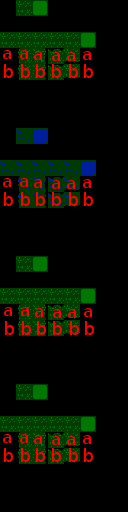
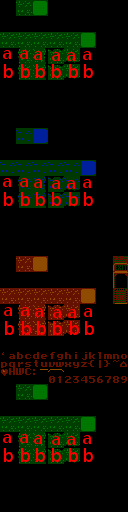
Show end of level and stuff

diff --git a/src/movement.c b/src/movement.c
@@ -86,14 +86,14 @@ void do_banked_movement() {
 		scratch = playerY + playerYVelocity;
 		if (playerYVelocity & 0x80) {
 			// TL || TR
-			if (test_collision(currentLevel[(playerX>>4)+((((scratch)>>4))<<4)]) || test_collision(currentLevel[((playerX+PLAYER_WIDTH)>>4)+(((scratch>>4))<<4)])) {
+			if (test_collision(currentLevel[(playerX>>4)+((((scratch)>>4))<<4)], 1) || test_collision(currentLevel[((playerX+PLAYER_WIDTH)>>4)+(((scratch>>4))<<4)], 1)) {
 				playerYVelocity = 0;
 			}
 			if (playerVelocityLockTime == 0)
 				playerDirection = PLAYER_DIRECTION_UP;
 		} else {
 			// BL || BR
-			if (test_collision(currentLevel[((playerX)>>4)+((((scratch+PLAYER_HEIGHT)>>4))<<4)]) || test_collision(currentLevel[((playerX+PLAYER_WIDTH)>>4)+((((scratch+PLAYER_HEIGHT)>>4))<<4)])) {
+			if (test_collision(currentLevel[((playerX)>>4)+((((scratch+PLAYER_HEIGHT)>>4))<<4)], 1) || test_collision(currentLevel[((playerX+PLAYER_WIDTH)>>4)+((((scratch+PLAYER_HEIGHT)>>4))<<4)], 1)) {
 				playerYVelocity = 0;
 			}
 			if (playerVelocityLockTime == 0)
@@ -105,14 +105,14 @@ void do_banked_movement() {
 		scratch = playerX + playerXVelocity;
 		if (playerXVelocity & 0x80) {
 			// TL || BL
-			if (test_collision(currentLevel[(scratch>>4)+((((playerY)>>4))<<4)]) || test_collision(currentLevel[(scratch>>4)+((((playerY+PLAYER_HEIGHT)>>4))<<4)])) {
+			if (test_collision(currentLevel[(scratch>>4)+((((playerY)>>4))<<4)], 1) || test_collision(currentLevel[(scratch>>4)+((((playerY+PLAYER_HEIGHT)>>4))<<4)], 1)) {
 				playerXVelocity = 0;
 			}
 			if (playerVelocityLockTime == 0)
 				playerDirection = PLAYER_DIRECTION_LEFT;
 		} else {
 			// TR || BR
-			if (test_collision(currentLevel[((scratch+PLAYER_WIDTH)>>4)+(((playerY>>4))<<4)]) || test_collision(currentLevel[((scratch+PLAYER_WIDTH)>>4)+((((playerY+PLAYER_HEIGHT)>>4))<<4)])) {
+			if (test_collision(currentLevel[((scratch+PLAYER_WIDTH)>>4)+(((playerY>>4))<<4)], 1) || test_collision(currentLevel[((scratch+PLAYER_WIDTH)>>4)+((((playerY+PLAYER_HEIGHT)>>4))<<4)], 1)) {
 				playerXVelocity = 0;
 			}
 			if (playerVelocityLockTime == 0)
@@ -187,7 +187,7 @@ void do_sprite_collision() {
 					worldChunkCount++;
 					update_hud();
 					// Please try not to vomit. I need 2 screen updates, so I trigger one after the other, and wait for nmi so they don't step on eachother.
-					if (scratch == playerOverworldPosition) {
+					if (scratch == playerOverworldPosition || worldChunkCount == worldTotalChunks) {
 						ppu_wait_nmi();
 						gameState = GAME_STATE_REDRAW;
 					}

diff --git a/world.c b/world.c
@@ -27,11 +27,11 @@ unsigned char currentPadState, staticPadState;
 unsigned char i;
 unsigned char j;
 unsigned char playerX, playerY, playerDirection, playerAnimState, playerXVelocity, playerYVelocity, playerVelocityLockTime;
-unsigned char playerOverworldPosition;
+unsigned char playerOverworldPosition, currentLevelId;
 unsigned char currentSpriteId;
 unsigned char gameState;
 unsigned char scratch, scratch2, scratch3, scratch4, scratch5;
-unsigned char playerHealth, worldChunkCount;
+unsigned char playerHealth, worldChunkCount, worldTotalChunks;
 unsigned int scratchInt;
 #pragma bssseg (pop)
 #pragma dataseg(pop)
@@ -57,8 +57,8 @@ void draw_hud();
 
 void clear_screen() {
 	// Clear the screen to start
-	vram_adr(0x2060);
-	vram_fill(0, 0x03a0);
+	vram_adr(0x2000);
+	vram_fill(0, 0x0400);
 }
 
 
@@ -99,6 +99,11 @@ void main(void) {
 
 			set_prg_bank(BANK_TITLE);
 			show_title();
+
+			currentLevelId = 0;
+			gameState = GAME_STATE_START_LEVEL;
+		} else if (gameState == GAME_STATE_START_LEVEL) {
+
 			bank_spr(1);
 			pal_bg(main_palette);
 			pal_spr(sprite_palette);
@@ -107,6 +112,7 @@ void main(void) {
 
 			// TODO: Should be defined by the level...
 			playerOverworldPosition = 27;
+			worldTotalChunks = 1;
 			playerX = 80;
 			playerY = 80;
 
@@ -146,6 +152,11 @@ void main(void) {
 			set_prg_bank(BANK_TITLE);
 			show_game_over();
 			gameState = GAME_STATE_INIT;
+		} else if (gameState == GAME_STATE_LEVEL_COMPLETE) {
+			currentLevelId++;
+			set_prg_bank(BANK_TITLE);
+			show_level_complete();
+			gameState = GAME_STATE_START_LEVEL;
 		}
 	}
 }
@@ -173,7 +184,7 @@ void draw_sprites() {
 	banked_draw_sprites();
 }
 
-unsigned char test_collision(unsigned char tileId) {
+unsigned char test_collision(unsigned char tileId, unsigned char isPlayer) {
 	char temp = tileId & 0x3f;
 	if (temp >= LEVEL_FRAGMENT_1_TILES && temp < LEVEL_FRAGMENT_1_TILES+LEVEL_FRAGMENT_TILE_LEN) {
 		if (currentWorldData[playerOverworldPosition] & LEVEL_FRAGMENT_1)
@@ -184,7 +195,14 @@ unsigned char test_collision(unsigned char tileId) {
 	}
 
 	switch (temp) {
+		case 15: 
+			if (worldChunkCount >= worldTotalChunks) {
+				gameState = GAME_STATE_LEVEL_COMPLETE;
+			}
+			// else fallthru
 		case 2:
+		case 7:
+		case 14: 
 		case 21:
 		case 24: 
 		case 32:

diff --git a/src/globals.h b/src/globals.h
@@ -24,6 +24,8 @@
 #define GAME_STATE_RUNNING 0
 #define GAME_STATE_REDRAW 1
 #define GAME_STATE_WORLD_MOVEMENT 2
+#define GAME_STATE_LEVEL_COMPLETE 3
+#define GAME_STATE_START_LEVEL 4
 #define GAME_STATE_INIT 255
 #define GAME_STATE_GAME_OVER 250
 
@@ -44,11 +46,15 @@
 #define HUD_TOP 0xe5
 #define HUD_L 0xe6
 #define HUD_R 0xe7
+#define HUD_SLASH 0xdb
+
+#define TILE_EXIT 15
+#define TILE_EXIT_CLOSED 14
 
 #define CHR_BANK_TITLE 0
 #define CHR_BANK_MAIN 2 // NOTE: We have two copies of the same 4k data in the 8k .chr files (because I'm lazy, ok?) so we use bank 2 to get the inverted one.
 
-
+#define NUMBER_OF_LEVELS 2
 
 // This file defines globals that can be used all over. You'll want common things in here, as the NES has very, very
 // limited ram. 
@@ -56,11 +62,11 @@
 extern unsigned char currentPadState;
 extern unsigned char i, j, scratch, scratch2, scratch3, scratch4, scratch5; 
 extern unsigned int scratchInt;
-extern unsigned char playerOverworldPosition;
+extern unsigned char playerOverworldPosition, currentLevelId;
 extern unsigned char currentSpriteId;
 extern unsigned char gameState;
 extern unsigned char playerX, playerY, playerDirection, playerAnimState, playerXVelocity, playerYVelocity, playerVelocityLockTime;
-extern unsigned char playerHealth, worldChunkCount;
+extern unsigned char playerHealth, worldChunkCount, worldTotalChunks;
 extern unsigned char FRAME_COUNTER;
 
 #pragma zpsym ("currentPadState")
@@ -85,6 +91,8 @@ extern unsigned char FRAME_COUNTER;
 #pragma zpsym ("worldChunkCount")
 #pragma zpsym ("playerVelocityLockTime")
 #pragma zpsym ("FRAME_COUNTER")
+#pragma zpsym ("worldTotalChunks")
+#pragma zpsym ("currentLevelId")
 
 extern unsigned char currentLevel[256];
 extern char screenBuffer[0x30];
@@ -96,5 +104,5 @@ extern char extendedSpriteData[56];
 
 extern void put_str(unsigned int adr, const char *str);
 extern void clear_screen();
-extern unsigned char test_collision(unsigned char tileId);
+extern unsigned char test_collision(unsigned char tileId, unsigned char isPlayer);
 void update_hud();

diff --git a/src/title.c b/src/title.c
@@ -89,6 +89,35 @@ void show_game_over() {
 	
 }
 
+void show_level_complete() {
+	oam_hide_rest(0);
+	ppu_off();
+	clear_screen();
+
+	set_chr_bank_0(CHR_BANK_TITLE);
+	set_chr_bank_1(CHR_BANK_TITLE+1);
+	pal_col(1,0x19);//set dark green color
+	pal_col(17,0x19);
+
+
+	// Show a message to the user.
+	put_str(NTADR_A(8,8), "Level Complete!");
+	put_str(NTADR_A(8,17), "- Press Start -");
+
+
+	ppu_on_all();
+
+	// Wait for start
+	while (1) {
+		currentPadState = pad_trigger(0);
+		if (currentPadState & PAD_START) {
+			break;
+		}
+		ppu_wait_nmi();
+	}		
+	
+}
+
 
 void banked_draw_hud() {
 	ppu_off();
@@ -134,6 +163,9 @@ void banked_draw_hud() {
 	vram_put(HUD_BLANK);
 	vram_put(HUD_NUMBERS);
 	vram_put(HUD_NUMBERS+worldChunkCount);
+	vram_put(HUD_SLASH);
+	vram_put(HUD_NUMBERS);
+	vram_put(HUD_NUMBERS+worldTotalChunks);
 
 	ppu_on_all();
 

diff --git a/src/level_manip.c b/src/level_manip.c
@@ -27,6 +27,8 @@ void banked_draw_level() {
 		} else if (scratch >= LEVEL_FRAGMENT_2_TILES && scratch < LEVEL_FRAGMENT_2_TILES+LEVEL_FRAGMENT_TILE_LEN) {
 			if (currentWorldData[playerOverworldPosition] & LEVEL_FRAGMENT_2)
 				scratch -= (LEVEL_FRAGMENT_TILE_LEN*2);
+		} else if (scratch == TILE_EXIT && worldChunkCount < worldTotalChunks) {
+			scratch = TILE_EXIT_CLOSED;
 		}
 		scratch = (((scratch >> 3)) << 5) + ((scratch % 8) << 1);
 

diff --git a/src/title.h b/src/title.h
@@ -1,3 +1,4 @@
 void show_title();
 void show_game_over();
 void banked_draw_hud();
+void show_level_complete();
